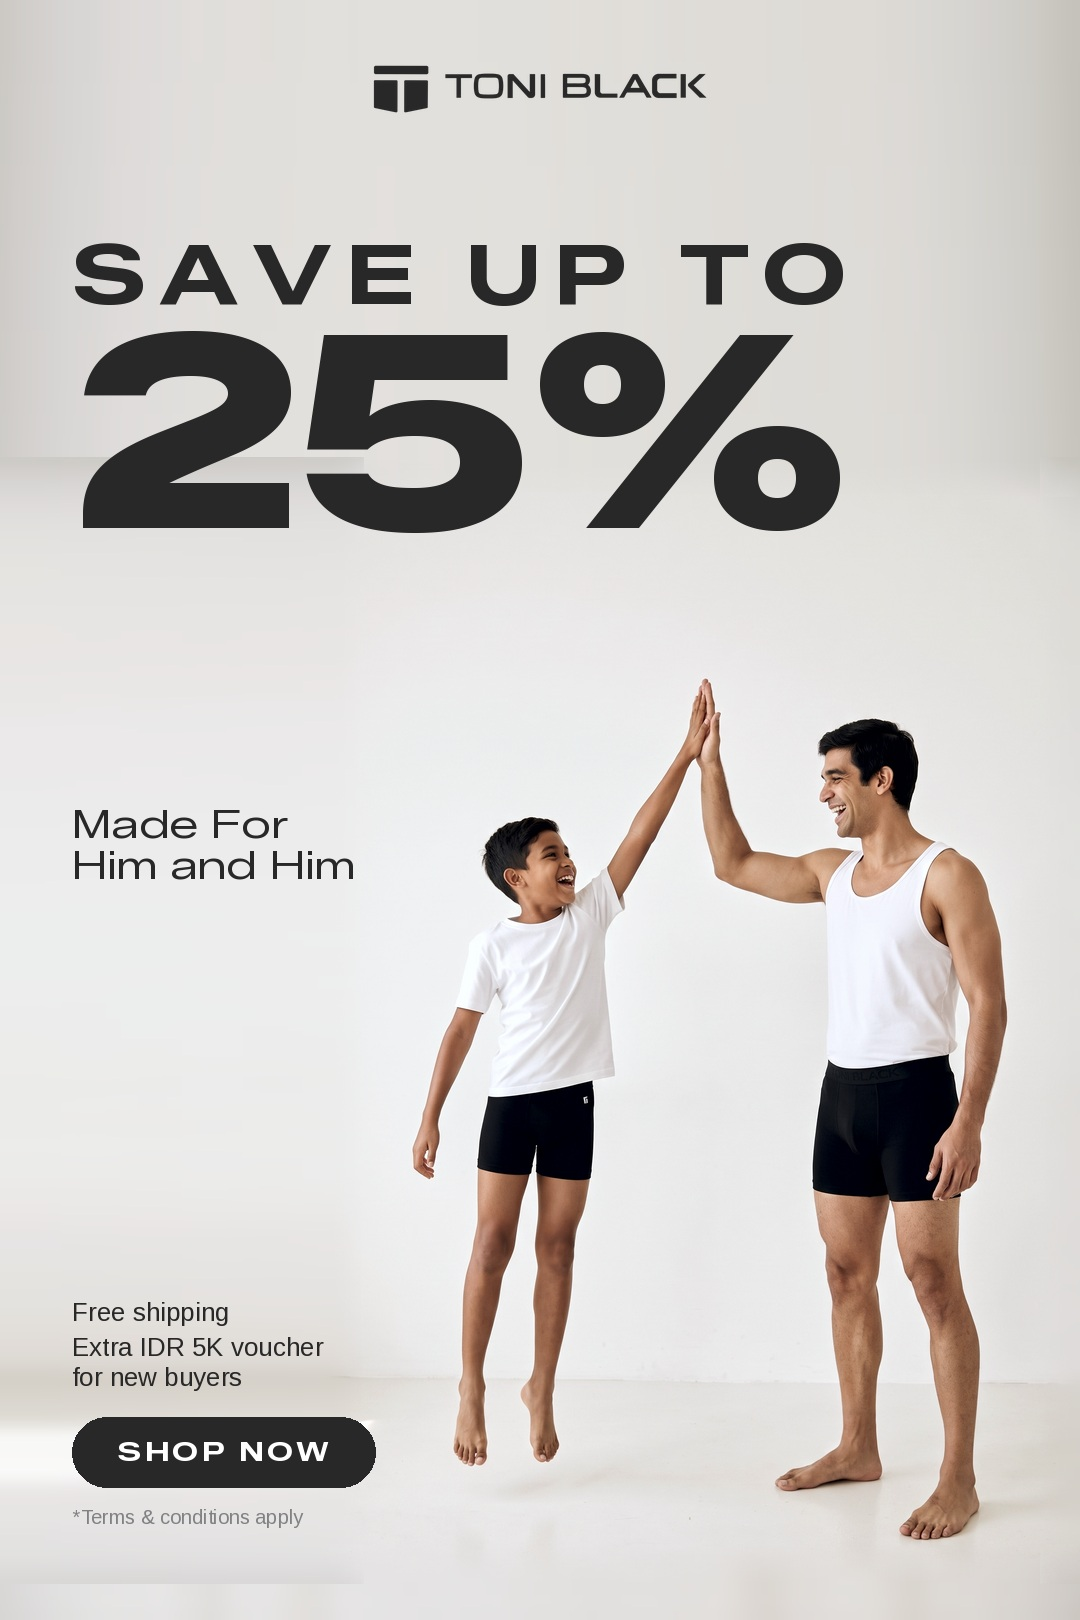
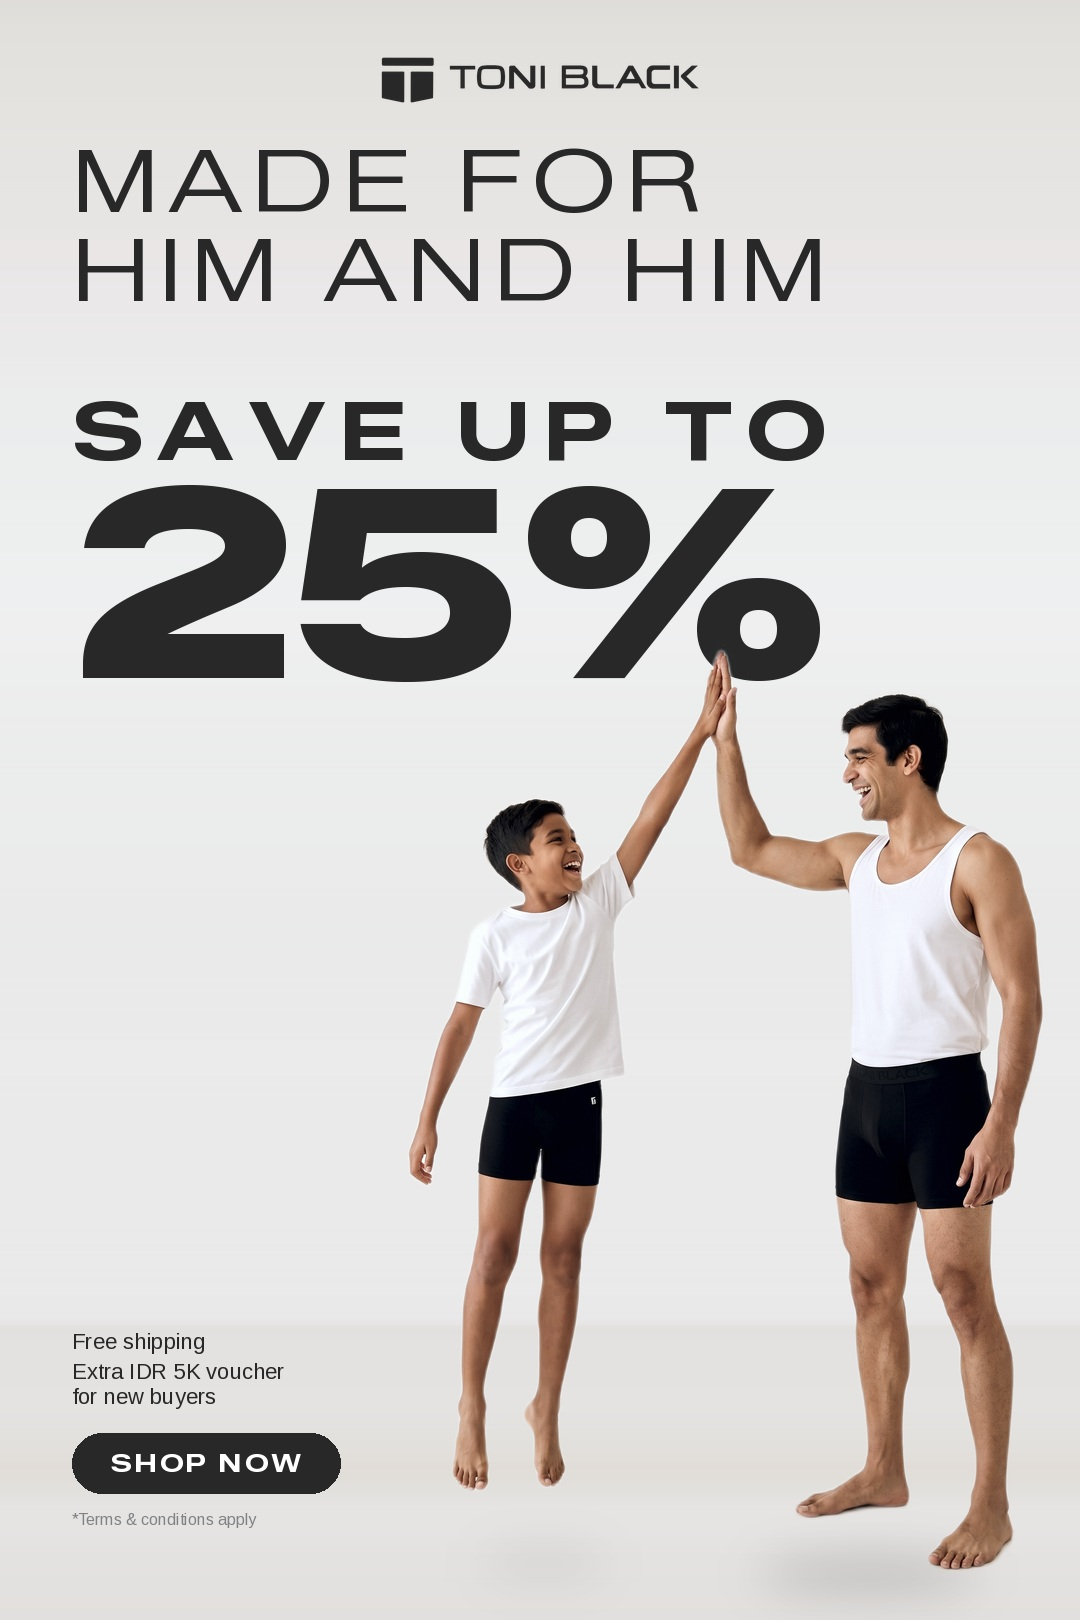
Him and Him v3: figures cut out and set large, header at poster scale
Claude-Session: https://claude.ai/code/session_01D9RBu3wL2qzNxzBzcGFuRs

diff --git a/banner-him-and-him-toni-black/scripts/compose_himhim3.py b/banner-him-and-him-toni-black/scripts/compose_himhim3.py
@@ -1,0 +1,61 @@
+"""'Made For Him and Him' v3: figures cut out and set large on the right; header and hero at poster scale on the
+left axis, hero set behind the raised arms (type-behind-subject, as in BAU); offer block bottom-left."""
+import sys, numpy as np
+from PIL import Image, ImageDraw, ImageFont, ImageFilter
+sys.path.insert(1,"/home/user/Dom-Manipulation/banner-bau-toni-black/scripts")
+from logo import make_logo
+from compose_himhim import graded_photo, tracked, tw, cb, font, fit
+C282=(40,40,40); WHITE=(255,255,255); C81=(129,130,132)
+def figures():
+    """graded photo + rembg alpha, cropped to the pair."""
+    rgb=graded_photo(); a=Image.open("gen/himhim_a_cutout.png").split()[3]
+    fig=rgb.copy(); fig.putalpha(a); bb=a.getbbox(); return fig.crop(bb)
+def wall(W,H,src_rows):
+    """vertical gradient from the photo's own wall: per-row median of non-subject pixels, resampled to H."""
+    rgb=np.asarray(graded_photo()).astype(float); a=np.asarray(Image.open("gen/himhim_a_cutout.png").split()[3])<10
+    rows=np.array([np.median(rgb[y][a[y]],axis=0) if a[y].sum()>50 else [np.nan]*3 for y in range(rgb.shape[0])])
+    for c in range(3):
+        v=rows[:,c]; idx=np.where(~np.isnan(v))[0]; rows[:,c]=np.interp(np.arange(len(v)),idx,v[idx])
+    y0,y1=src_rows; sel=rows[int(y0*rgb.shape[0]):int(y1*rgb.shape[0])]
+    col=np.array([np.interp(np.linspace(0,len(sel)-1,H),np.arange(len(sel)),sel[:,c]) for c in range(3)]).T
+    im=np.repeat(col[None,:,:],W,axis=0).transpose(1,0,2); return Image.fromarray(im.astype(np.uint8))
+def shadow(cv,cx,cy,w,h,alpha=70):
+    s=Image.new("L",(w+120,h+120),0); ImageDraw.Draw(s).ellipse([60,60,60+w,60+h],fill=alpha); s=s.filter(ImageFilter.GaussianBlur(22))
+    cv.paste(Image.new("RGB",s.size,(60,58,56)),(int(cx-s.width/2),int(cy-s.height/2)),s)
+def header(d,x,y,width,lines=("MADE FOR","HIM AND HIM")):
+    z=fit(d,lines[1],"ZalandoSansExpanded-Regular.ttf",width,0.12); f=font("ZalandoSansExpanded-Regular.ttf",z); c=cb(d,"H",f); ch=c[3]-c[1]
+    for t in lines: tracked(d,(x-cb(d,t,f)[0],y-c[1]),t,f,C282,z*0.12); y+=int(ch*1.45)
+    return y-int(ch*1.45)+ch, z
+def hero(d,x,y,numw):
+    fn=font("ZalandoSansExpanded-Black.ttf",fit(d,"25%","ZalandoSansExpanded-Black.ttf",numw,-0.02)); nb=cb(d,"25%",fn)
+    fk=font("ZalandoSansExpanded-Bold.ttf",fit(d,"SAVE UP TO","ZalandoSansExpanded-Bold.ttf",numw,0.17,hi=90)); kb=cb(d,"SAVE UP TO",fk)
+    tracked(d,(x-kb[0],y-kb[1]),"SAVE UP TO",fk,C282,fk.size*0.17); y+=kb[3]-kb[1]+int(fk.size*0.3)
+    tracked(d,(x-nb[0],y-nb[1]),"25%",fn,C282,fn.size*-0.02); return y+nb[3]-nb[1]
+def offer(d,x,base,ben=22,cta=60,ctaf=24):
+    ft=font("Arimo-Regular.ttf",16); t="*Terms & conditions apply"; b=cb(d,t,ft); d.text((x-b[0],base-(b[3]-b[1])-b[1]),t,font=ft,fill=C81)
+    y=base-(b[3]-b[1])-20-cta; fc=font("ZalandoSansExpanded-Bold.ttf",ctaf); w=tw(d,"SHOP NOW",fc,3)+int(cta*1.3)
+    d.rounded_rectangle([x,y,x+w,y+cta],radius=cta//2,fill=C282); b=cb(d,"SHOP NOW",fc); tracked(d,(x+int(cta*0.65)-b[0],y+(cta-(b[3]-b[1]))//2-b[1]),"SHOP NOW",fc,WHITE,3)
+    fb=font("Arimo-Regular.ttf",ben); y-=24
+    for t in reversed(["Free shipping","Extra IDR 5K voucher","for new buyers"]):
+        b=cb(d,t,fb); y-=(b[3]-b[1]); d.text((x-b[0],y-b[1]),t,font=fb,fill=C282); y-=int(ben*0.45)
+    return y, x+w
+def build(W,H,out,fig_h,fig_right,fig_bottom,M,logo_w,head_y,head_w,hero_y,numw,base_off,ben,cta,ctaf,behind=True):
+    fig=figures(); s=fig_h/fig.height; fw=int(fig.width*s+0.5); f=fig.resize((fw,fig_h),Image.LANCZOS)
+    fx=fig_right-fw; fy=fig_bottom-fig_h
+    cv=wall(W,H,(0.0,1.0)); d=ImageDraw.Draw(cv)
+    lg=make_logo(C282,8); lg=lg.resize((logo_w,int(lg.height*logo_w/lg.width)),Image.LANCZOS); cv.paste(lg,((W-logo_w)//2,56),lg)
+    hb,hz=header(d,M,head_y,head_w)
+    hero_bottom=hero(d,M,hero_y,numw) if behind else None
+    # figures over the type (type-behind-subject); shadows first
+    shadow(cv,fx+int(fw*0.72),fy+fig_h-6,int(fw*0.34),int(fig_h*0.03))
+    shadow(cv,fx+int(fw*0.22),fy+fig_h-int(fig_h*0.02),int(fw*0.20),int(fig_h*0.02),alpha=40)
+    cv.paste(f,(fx,fy),f); d=ImageDraw.Draw(cv)
+    if not behind: hero_bottom=hero(d,M,hero_y,numw)
+    ob,ox=offer(d,M,H-M-base_off,ben,cta,ctaf)
+    # report overlaps of the hero with the figures
+    alpha=np.zeros((H,W),bool); a=np.asarray(f.split()[3])>128; alpha[fy:fy+fig_h,fx:fx+fw]=a
+    print(f"{W}x{H}: figures x {fx}-{fig_right} y {fy}-{fig_bottom} ({fig_h/H:.0%} of height) | header {hz}px ends {hb} | hero ends {hero_bottom} | offer {ob}-{H-M-base_off}, right edge {ox}, figures start {fx}")
+    cv.save(out,quality=94,optimize=True); return cv
+if __name__=="__main__":
+    build(1080,1620,"out/himhim3_23.jpg",fig_h=940,fig_right=1050,fig_bottom=1580,M=72,logo_w=320,head_y=150,head_w=760,hero_y=400,numw=760,base_off=20,ben=22,cta=60,ctaf=24)
+    build(1080,1080,"out/himhim3_11.jpg",fig_h=760,fig_right=1040,fig_bottom=1056,M=64,logo_w=280,head_y=130,head_w=380,hero_y=290,numw=380,base_off=24,ben=20,cta=54,ctaf=22,behind=False)

diff --git a/banner-him-and-him-toni-black/README.md b/banner-him-and-him-toni-black/README.md
@@ -8,9 +8,12 @@ Father and son high-five, from the pose reference ("Referensi2.jpeg"), with the 
 | `final/TONI-BLACK_Him-and-Him_1080x1080.jpg` | 1:1, product-grid and square ad slots |
 | `final/photo_generated.jpg` | the raw photo, one generation |
 
-## Layout (BAU structure, `scripts/compose_himhim2.py`)
-Same placement as the BAU banner: logo top centre; hero `SAVE UP TO` / `25%` top-left at BAU scale (`25%` Zalando Black fitted to 780 px on 2:3, 600 px on 1:1, the kicker fitted to the same width); the message `Made For / Him and Him` mid-left in Zalando Regular (40 / 34); the offer block bottom-left: benefits in three short lines (Arimo 26), `SHOP NOW` charcoal pill, terms in `#818284`. The photo is never cropped: it sits bottom-right at 70% width (2:3) or 58% (1:1) with the studio wall extended, so the figures and both products stay whole. All type on one left axis (72 px), with the wall left of the boy as its field; every glyph keeps 24 px from the figures (checked against the subject mask). Colour: the same global grade as the BAU / 9.9 banners (contrast, -12% chroma, cool highlights); the BAU skin transfer was not applied because this model's skin is lighter than the BAU model's and the transfer would darken it.
+## Layout (v3, `scripts/compose_himhim3.py`)
+The pair in the photo spans almost the whole frame width, so a full-bleed photo leaves no field for a poster-scale header. The figures are therefore cut out (rembg, `final/photo_generated_cutout.png`) and set large on a wall rebuilt from the photo's own wall gradient (per-row median of the non-subject pixels), with soft contact shadows. A re-shoot asking for the pair in the right half (`prompts/prompt_himhim2.txt`) came back with the same composition and was not used.
+- **2:3:** logo top centre; header `MADE FOR / HIM AND HIM` at poster scale (Zalando Sans Expanded Regular 87 px, tracked 0.12 em, fitted to 760 px); hero `SAVE UP TO` / `25%` (Black, 760 px) below it; the figures at 58% of the height, right-aligned, their raised arms passing in front of the number (type-behind-subject, as in BAU); offer block bottom-left in the wall left of the boy: three short benefit lines (Arimo 22), `SHOP NOW` pill, terms. One left axis at 72 px.
+- **1:1:** figures at 70% of the height on the right; left column (380 px) carries the header (43 px), hero (`25%` 380 px), benefits, pill and terms, logo top centre.
+Hierarchy by size: number, header, kicker, benefits, terms. Groups separated by gaps several times their internal leading.
 
 ## Pipeline
 1. `prompts/prompt_himhim.txt`, Nano Banana Pro, 2:3, 2K. References in order: pose, model, men's boxer brief (`6a.png`), singlet (`TNB 5 gm.jpg`), kids boxer (`Boxer anak/2.png`), BAU graded photo (look). One generation, 18 credits.
-2. `scripts/compose_himhim.py` (needs `gen/himhim_a_0.png` and `fonts/static/`): applies the global grade, extends the wall, sets the type. `build_23`, `build_11`.
+2. `scripts/compose_himhim3.py` (needs `gen/himhim_a_0.png`, `gen/himhim_a_cutout.png` and `fonts/static/`; imports helpers from `compose_himhim.py`): global BAU grade, rebuilt wall, cut-out figures, type.
